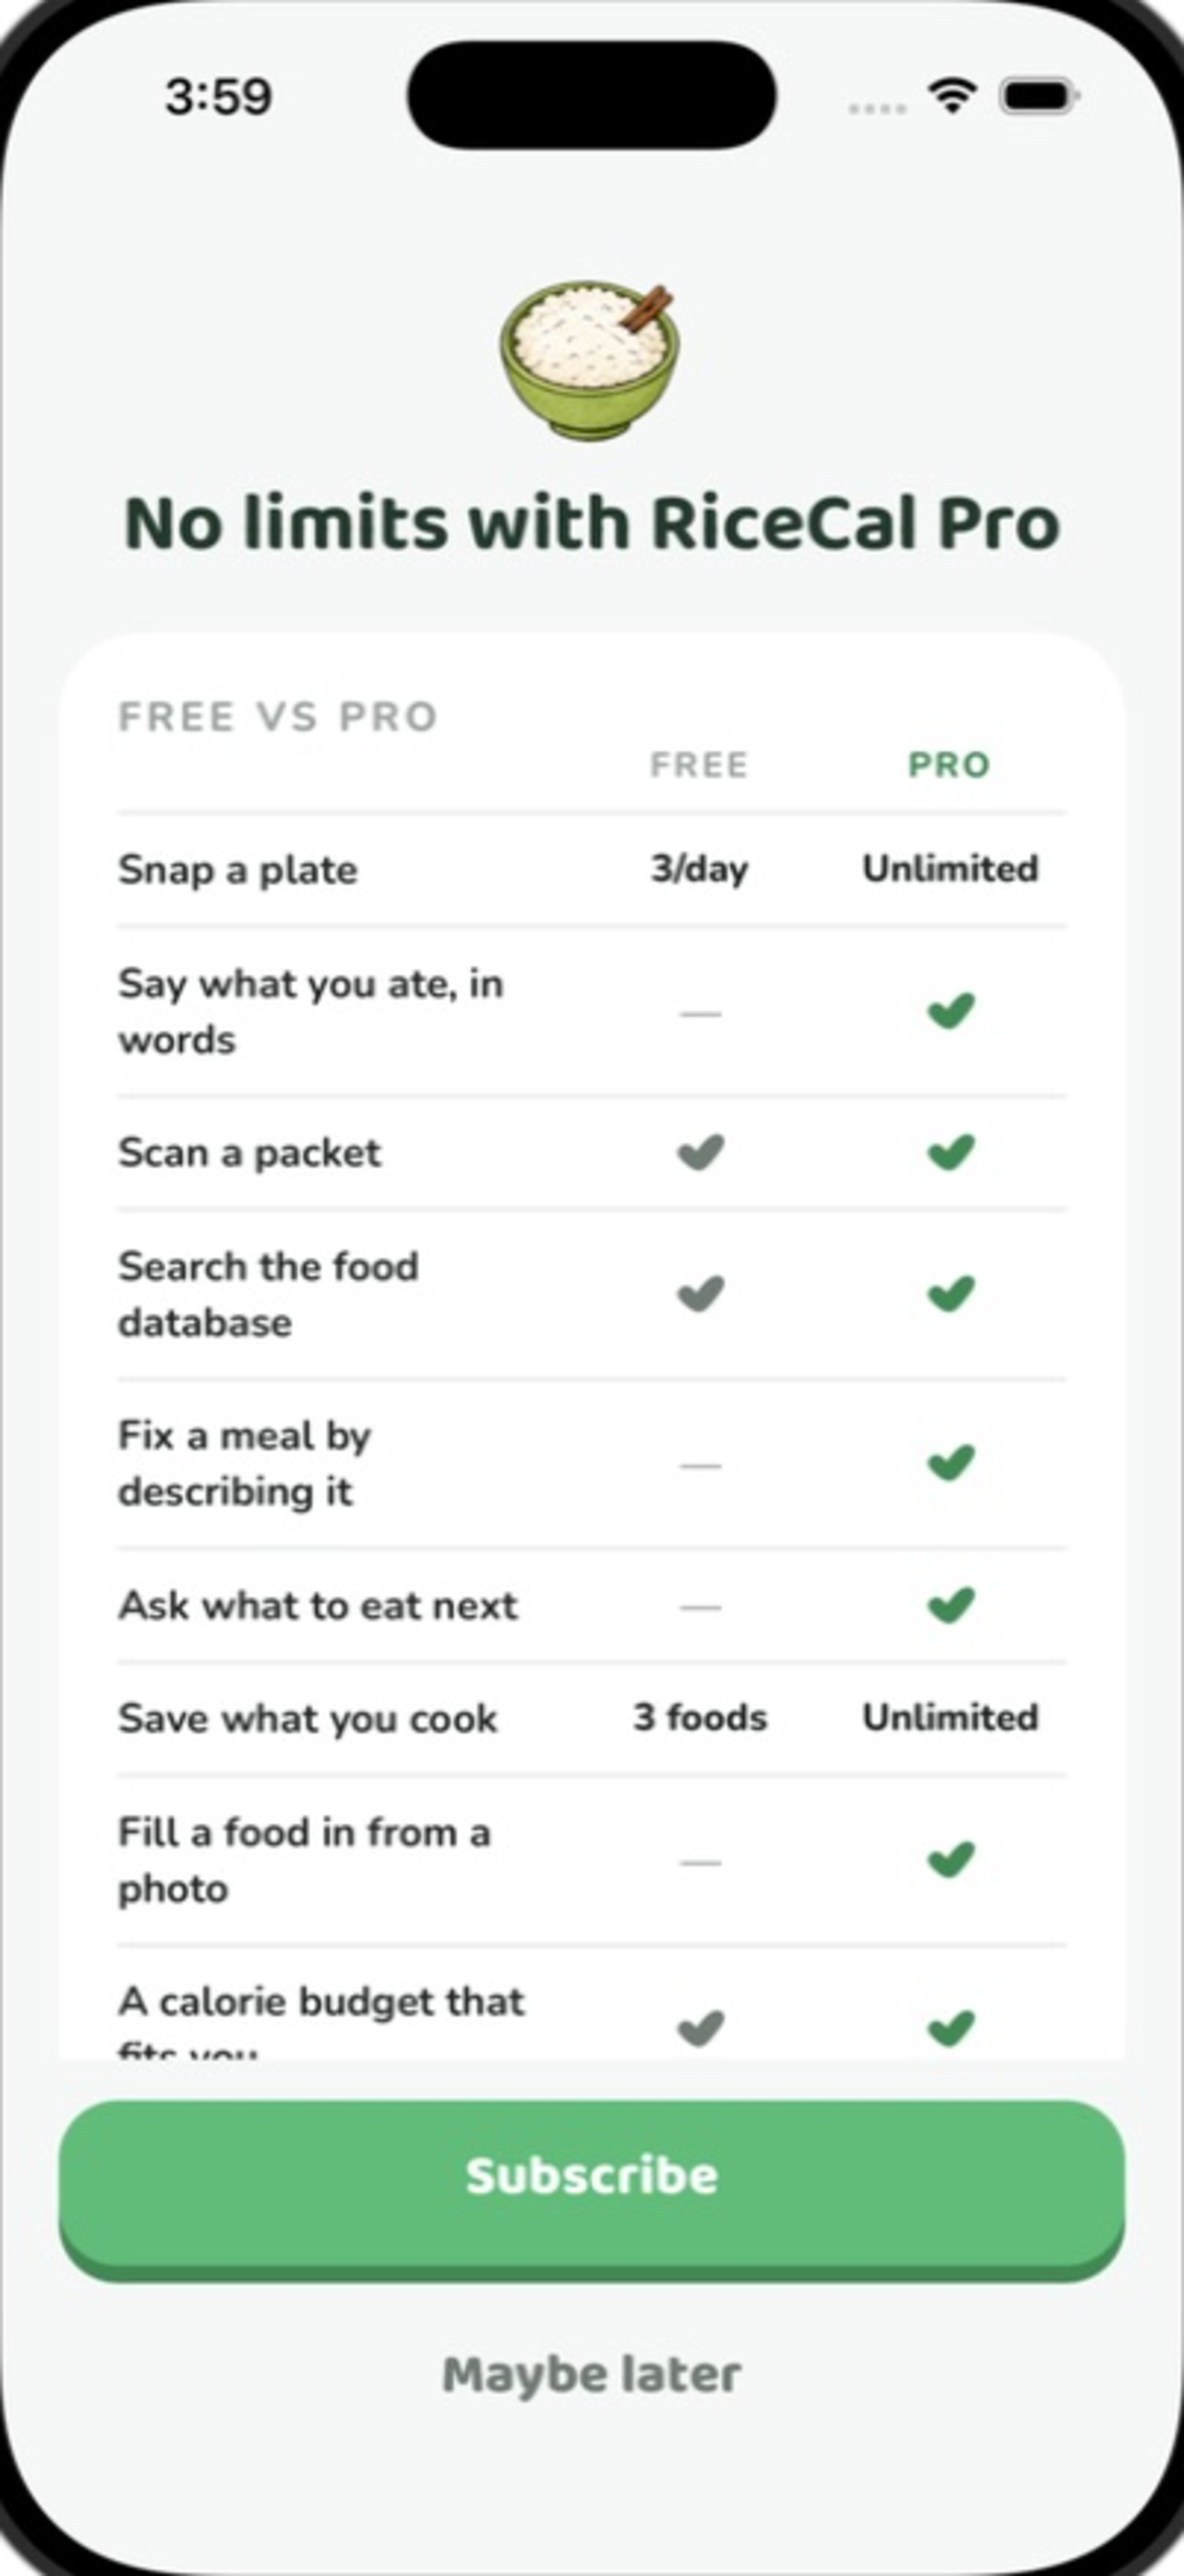
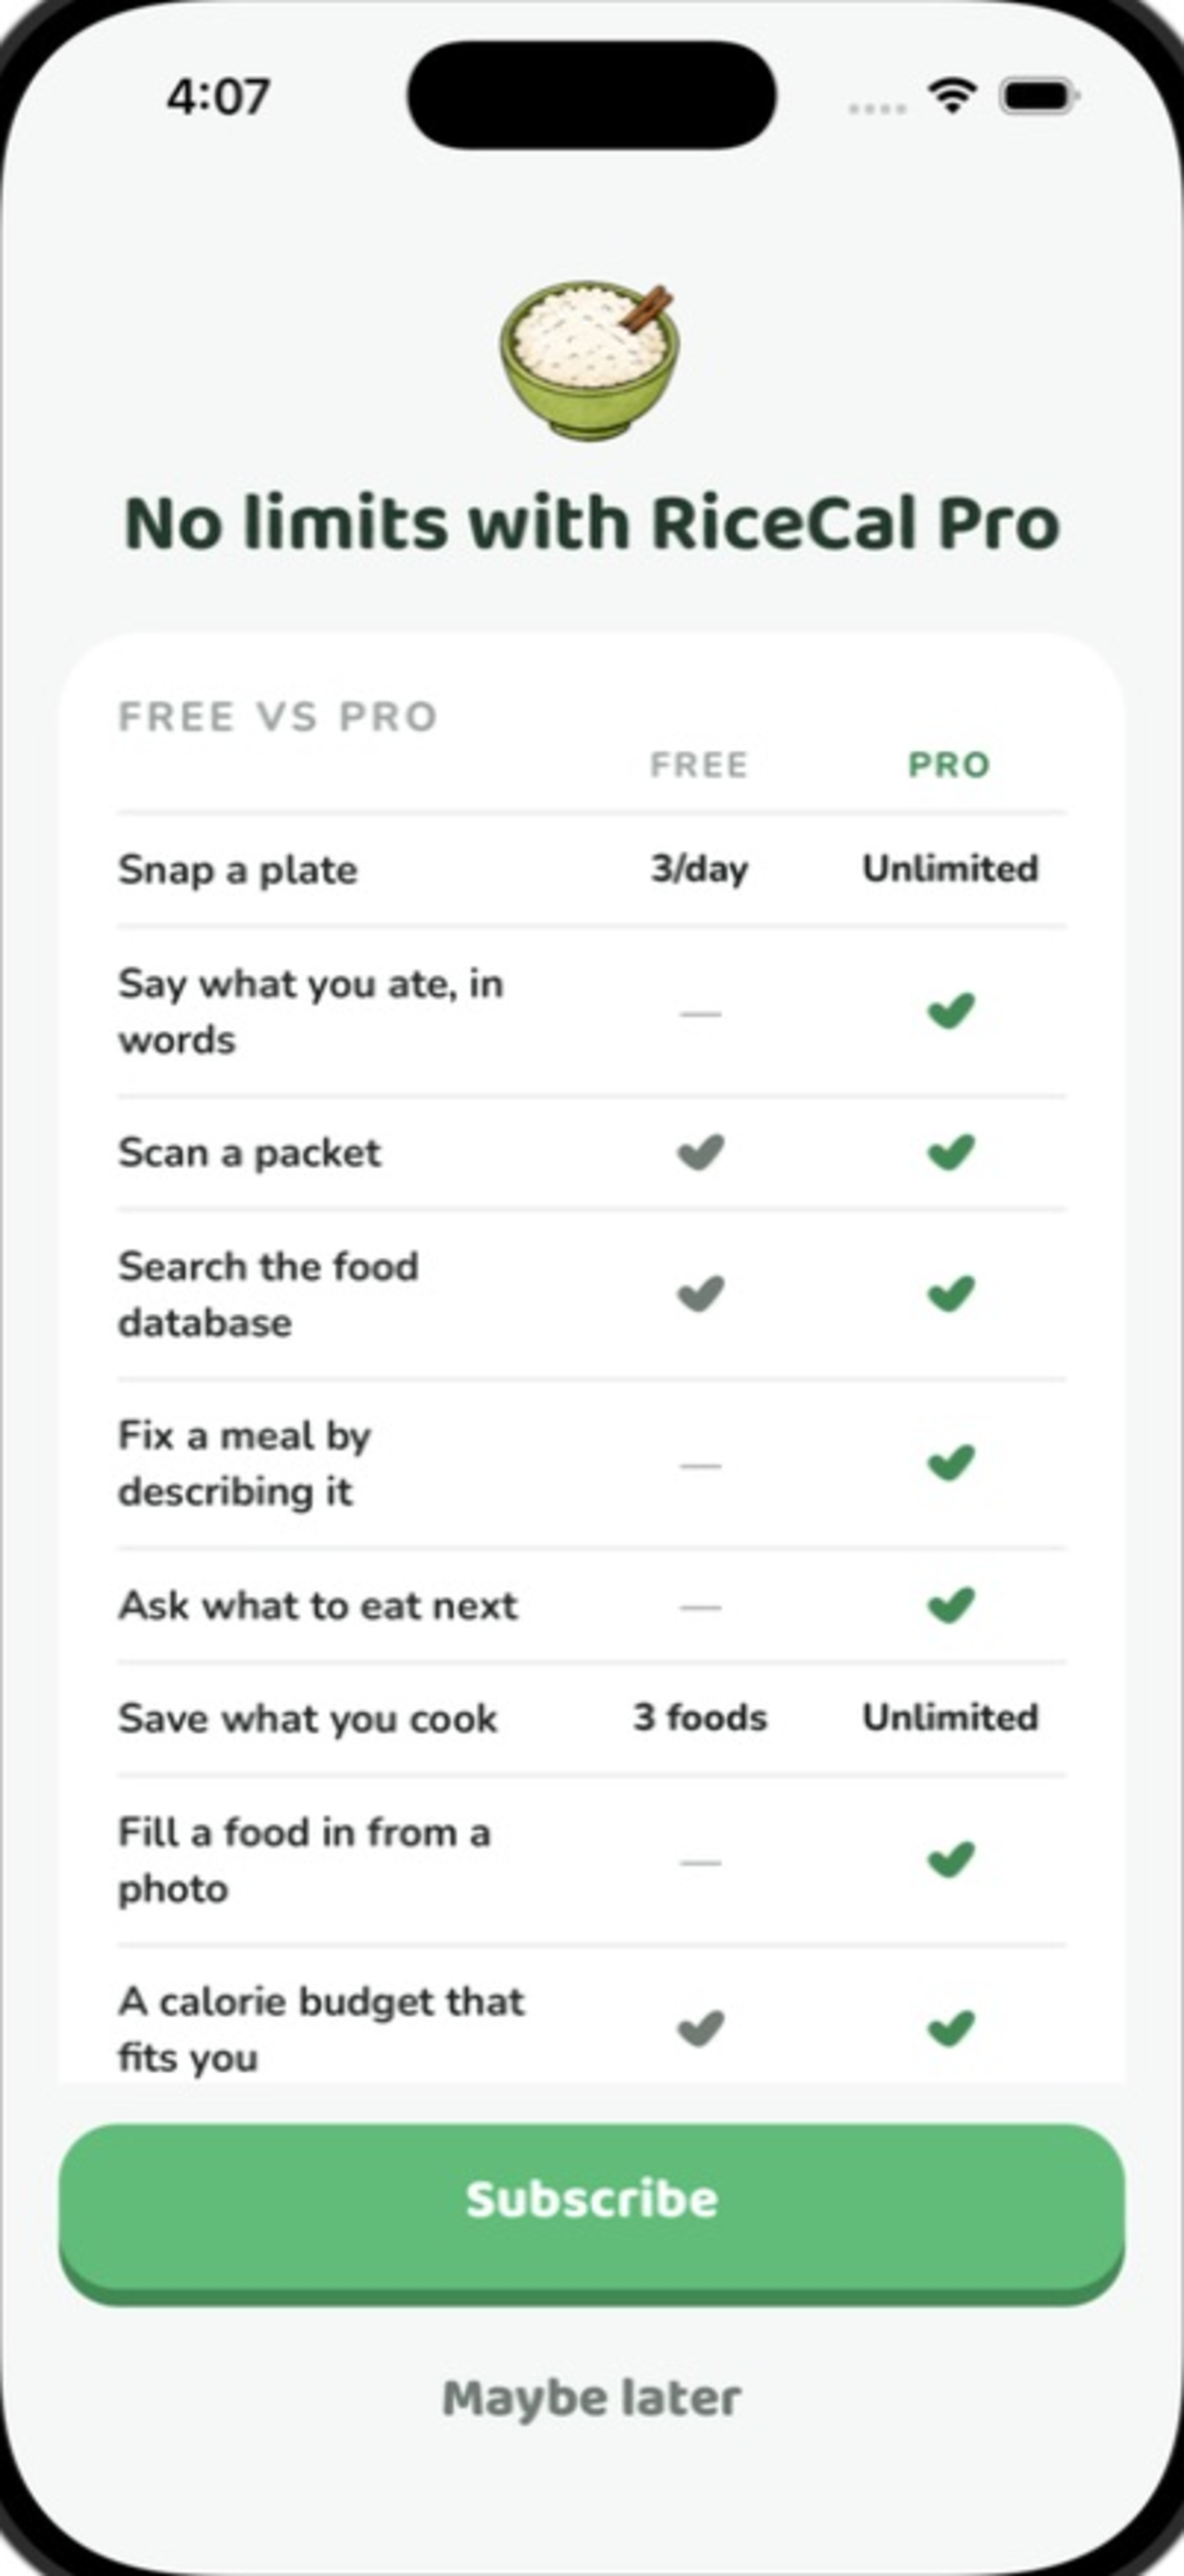
Tighten onboarding paywall footer spacing

Changed region(s): [[0.0307, 0.7723, 0.9511, 0.9577], [0.1227, 0.0309, 0.2454, 0.0618]]

diff --git a/apps/mobile/app/paywall/intro.tsx b/apps/mobile/app/paywall/intro.tsx
@@ -106,7 +106,10 @@ export default function IntroPaywall() {
   return (
     <Screen
       footer={
-        <View className="gap-1.5">
+        // The screen shell already protects the home indicator. Pull this
+        // quiet final action slightly into that padding so it sits nearer the
+        // edge without shrinking either button's tap target.
+        <View className="-mb-sm gap-1.5">
           <Button fullWidth onPress={start}>
             {lifetime
               ? t('paywall:hard.startLifetime')
